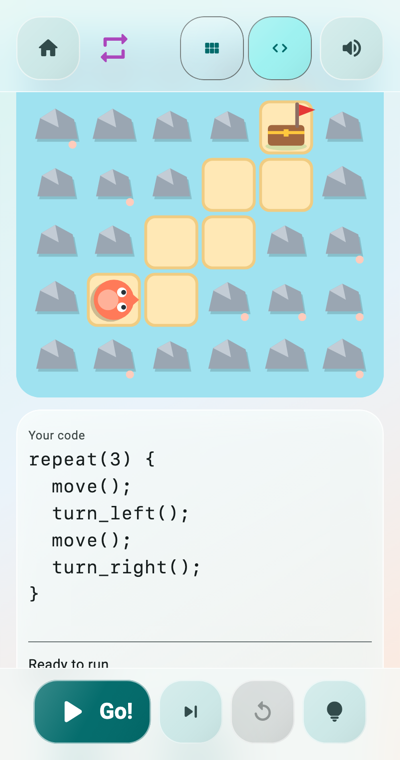
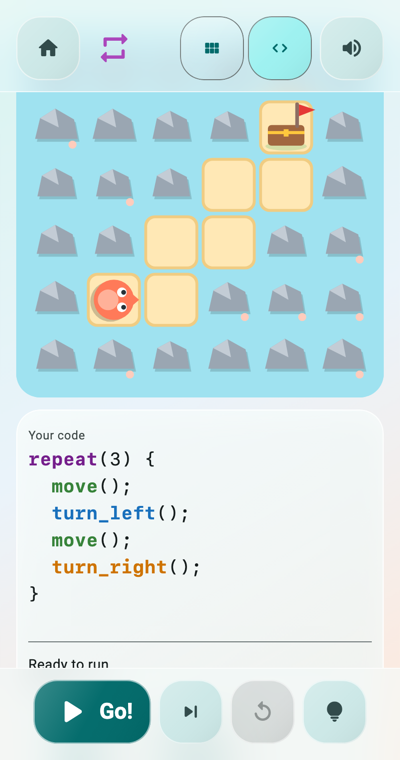
build: bump version to 1.1.0+9
Release notes, break reminder in the store description and the coloured code screenshot.

Changed region(s): [[0.06, 0.575, 0.39, 0.7566], [0.27, 0.7263, 0.42, 0.7566]]

diff --git a/website/changelog.html b/website/changelog.html
@@ -47,6 +47,17 @@
   <main class="wrap doc">
     <h1 data-en="What's new">Yang baru</h1>
     <p class="updated" data-en="What changed in each version of Coba Lagi. The newest is at the top.">Apa yang berubah di setiap versi Coba Lagi. Yang terbaru ada di paling atas.</p>
+    <article class="release" id="build-9">
+      <h2>1.1.0 <span class="build" data-en="build 9">build 9</span></h2>
+      <p class="updated"><time datetime="2026-10-07" data-en="7 October 2026">7 Oktober 2026</time></p>
+      <ul>
+        <li data-en="No more getting stuck on a finished island. A dotted trail shows how many puzzles are left until the next island, and the new island opens with a small celebration.">Tidak ada lagi tertahan di pulau yang sudah tuntas. Jejak titik menunjukkan sisa teka-teki sampai pulau berikutnya, dan pulau baru dibuka dengan perayaan kecil.</li>
+        <li data-en="Press the light bulb a second time to see the part that repeats. The bulb glows when a hint might help.">Tekan lampu sekali lagi untuk melihat bagian yang berulang. Lampu menyala saat petunjuk bisa membantu.</li>
+        <li data-en="Parents can set a break reminder in the parent area.">Orang tua bisa mengatur pengingat istirahat di area orang tua.</li>
+        <li data-en="Code now has the same colours as its blocks.">Kode kini berwarna sama dengan bloknya.</li>
+        <li data-en="A gentle buzz when a block is placed.">Getaran lembut saat blok dipasang.</li>
+      </ul>
+    </article>
     <article class="release" id="build-8">
       <h2>1.1.0 <span class="build" data-en="build 8">build 8</span></h2>
       <p class="updated"><time datetime="2026-10-07" data-en="7 October 2026">7 Oktober 2026</time></p>
